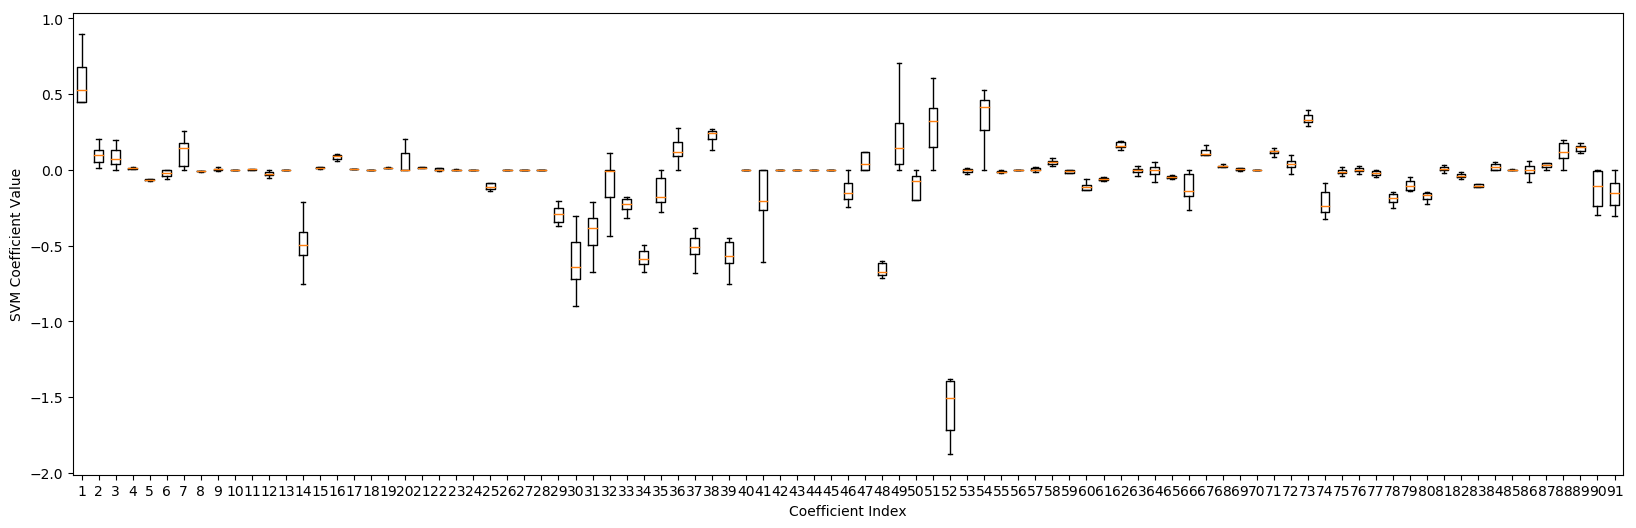
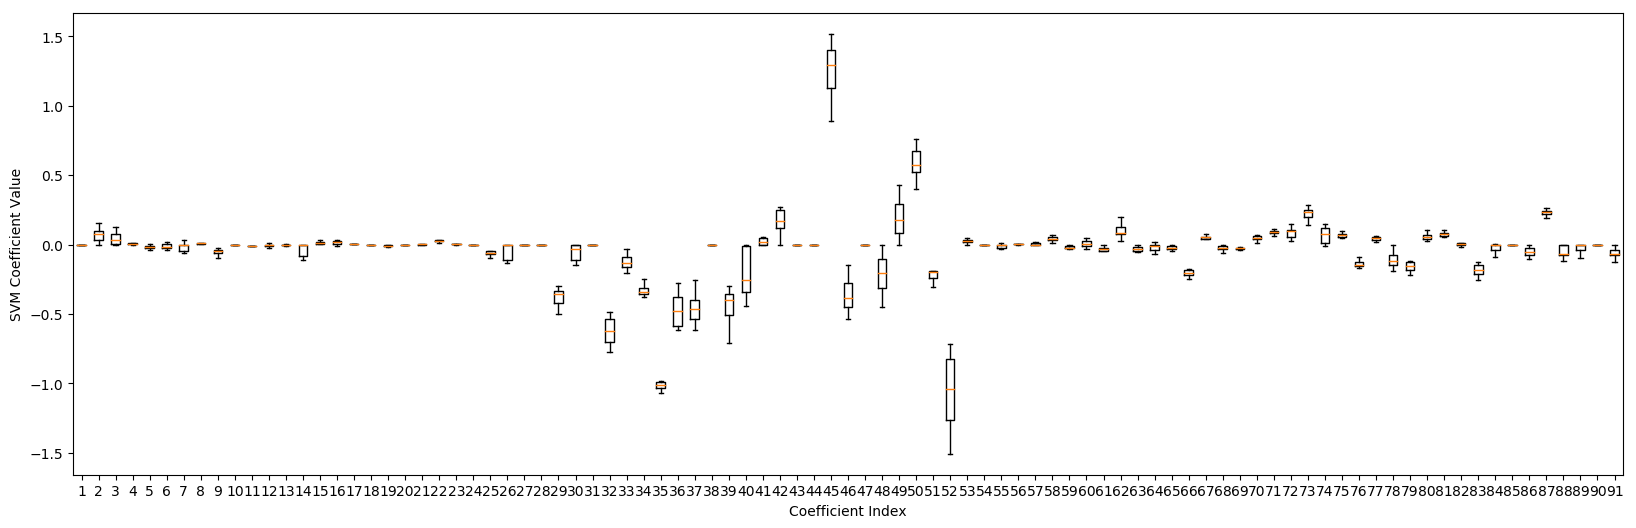
Added greedy subset selection svm

diff --git a/main.py b/main.py
@@ -1,13 +1,22 @@
 #!/usr/bin/env python3
-import os,sys,re,math,operator,string
-import numpy as np
+import math
+import operator
+import os
+import re
+import string
+import sys
+
 import matplotlib
 import matplotlib.pyplot as plt
-from utils import *
-from ClassifierResult import *
-from sklearn.svm import LinearSVC
-from sklearn.naive_bayes import MultinomialNB
+import numpy as np
 from sklearn.datasets import make_classification
+from sklearn.naive_bayes import MultinomialNB
+from sklearn.svm import LinearSVC
+from sklearn.utils import shuffle
+
+from ClassifierResult import *
+from utils import *
+
 
 def k_fold_cross_validation(tr_data,tr_labels,split_number):
 
@@ -149,6 +158,109 @@ def test_model():
         loss = zero_one_loss(preds,te_labels)
         print("ZERO-ONE-LOSS-" + post_fix +" {0:.4f}".format(round(float(loss),4)))
 
+def greedy_subset_svm(tr_data, tr_labels, num_features, split_number):
+    nb1 = ClassifierResult('GS Naive Bayes', [])
+    svm1 = SVMClassifierResult('GS svm: c = 0.25', [], [])
+
+    # grab what size the chunks should be
+    chunk = int(len(tr_data)/split_number)
+
+    # set the start and end index
+    te_start_index = 0
+    te_end_index = chunk
+
+    # set the start and end index
+    tr_start_index = te_end_index
+    tr_end_index = len(tr_data)
+
+
+    for i in range(split_number):
+        print('Fold: ' + str(i))
+        cv_tr_data,cv_tr_labels,cv_te_data,cv_te_labels\
+            = split_data(tr_data,tr_labels,split_number,i)
+        cv_training_data = np.array(cv_tr_data)
+
+        ## NAIVE DECLARED HERE TO BE INIT-ed WITH THE DATA FOR CROSS VALIDATION
+        # nb = MultinomialNB()
+        # nb.fit(cv_tr_data,cv_tr_labels)
+        # preds = nb.predict(cv_te_data)
+        # loss = zero_one_loss(preds,cv_te_labels)        
+        # nb1.zero_one_loss += [loss]
+        
+        params_to_keep = set()
+        for j in range(num_features):
+            # print('Feature: ' + str(j))
+
+            best_feature = 0
+            best_loss = 1.0
+            for k in range(cv_training_data.shape[1]):
+                if k in params_to_keep: continue
+                svm = LinearSVC(penalty = 'l2', C = 0.25, dual=False)
+                data = np.zeros(cv_training_data.shape)
+                params_to_keep.add(k)
+                # print('Trying: ' + str(params_to_keep))
+                data[:, list(params_to_keep)] = cv_training_data[:, list(params_to_keep)]
+                params_to_keep.discard(k)
+
+                svm.fit(data, cv_tr_labels)
+                preds = svm.predict(cv_te_data)
+                loss = zero_one_loss(preds, cv_te_labels)
+                if (loss <= best_loss):
+                    best_feature = k
+                    best_loss = loss
+            params_to_keep.add(best_feature)
+        
+        # We now have the best features
+        svm = LinearSVC(penalty = 'l2', C = 0.25, dual=False)
+        data = np.zeros(cv_training_data.shape)
+        data[:, list(params_to_keep)] = cv_training_data[:, list(params_to_keep)]
+        svm.fit(data, cv_tr_labels)
+        preds = svm.predict(cv_te_data)
+        loss = zero_one_loss(preds, cv_te_labels)
+        svm1.zero_one_loss += [loss]
+        svm1.params += [svm.coef_.ravel()]
+    
+    return nb1, svm1
+
+def experiment_2(data, labels, num_features, cv_split_number):
+    tr_data = data
+    tr_labels = labels
+    tr_data_size = len(tr_data)
+
+    nb_losses = []
+    svm_losses = []
+
+    svm_params = []
+
+    data_balance = [0.01, 0.02, 0.03]
+    for i in data_balance:
+        print('Processing: ' + str(i))
+
+        # cross validation training data
+        cv_tr_data = tr_data[:int(tr_data_size*i),:]
+        # cross validation labels
+        cv_tr_labels = tr_labels[:int(tr_data_size*i)]
+
+        nb, svm = greedy_subset_svm(cv_tr_data, cv_tr_labels, num_features, cv_split_number)
+
+        nb_losses += [nb.zero_one_loss] # list of lists where each row is cv_split_number
+        svm_losses += [svm.zero_one_loss]
+
+        svm_params += [svm.params]
+    
+    nb_model_losses = {
+        nb.name: nb_losses
+    }
+    svm_model_losses = {
+        svm.name: svm_losses
+    }
+    svm_model_params = {
+        svm.name: svm_params
+    }
+    write_losses(svm_model_losses,data_balance,"exp2")
+
+    return nb_model_losses, svm_model_losses, svm_model_params, np.array(data_balance)*tr_data_size
+
     
 def experiment_1(data,labels,cv_split_number):
     ## NUMBER OF EXAMPLES
@@ -214,9 +326,13 @@ if __name__ == "__main__":
             print("Usage: python main.py <data_file> <exp_no>")
         exp_no = sys.argv[2]
 
-        cv_split_number=10
+        cv_split_number = 10
+        num_features = 5
         fast = False
         tr_data,tr_labels = get_data(sys.argv[1])
+
+        # Randomize data order
+        tr_data, tr_labels = shuffle(tr_data, tr_labels)
 
         no_examples = len(tr_data)
         #no_examples = 100
@@ -229,3 +345,7 @@ if __name__ == "__main__":
             model_losses, model_params, cv_training_sizes = experiment_1(tr_data, tr_labels, cv_split_number)
             plot_experiment_losses(model_losses, cv_training_sizes, 'Cross Validation Sample Size', cv_split_number, line_types, './figures/exp_1_losses.png')
             plot_experiment_params(model_params, cv_training_sizes, cv_split_number, './figures/exp_1_params_{}.png')
+        if exp_no == "2" or exp_no == "-2":
+            nb_model_losses, svm_model_losses, svm_model_params, cv_training_sizes = experiment_2(tr_data, tr_labels, num_features, cv_split_number)
+            plot_experiment_losses(svm_model_losses, cv_training_sizes, 'Cross Validation Sample Size', cv_split_number, line_types, './figures/exp_2_losses.png')
+            plot_experiment_params(svm_model_params, cv_training_sizes, cv_split_number, './figures/exp_2_params_{}.png')
